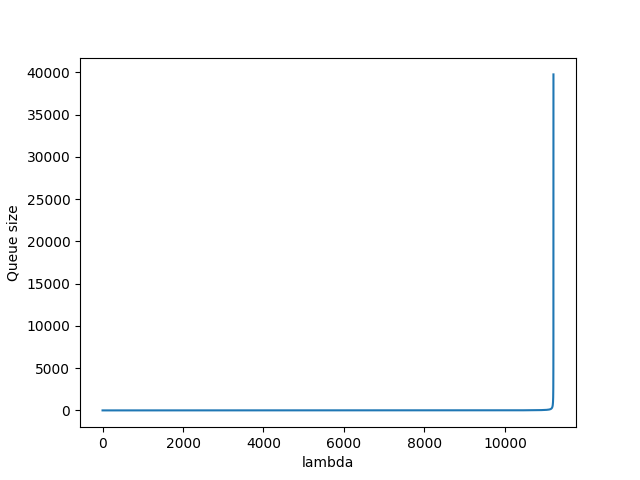
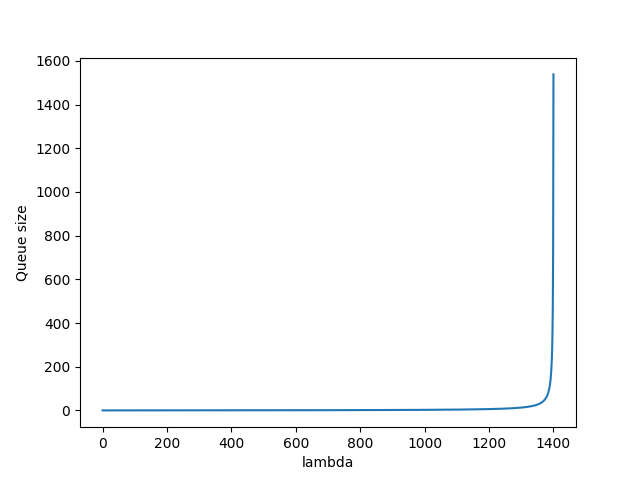
changed bits to bytes

diff --git a/Assignment 3/fileReader.py b/Assignment 3/fileReader.py
@@ -294,7 +294,7 @@ def doPart11():
   rate = (2.19 + 1.833 + 1.733) / 3 
   meanOutGoingPacketLength = (91.6 + 91.086 + 91.4215) / 3
   # Assuming packet length is in bits
-  mu = (128 * 1000 * 8) / meanOutGoingPacketLength
+  mu = (128 * 1000) / meanOutGoingPacketLength
   utilisationFactor = rate / mu
   queueSize = (rate) / (mu - rate)
   averageWaitingTime = (1/(mu - rate)) - (1 / mu)
